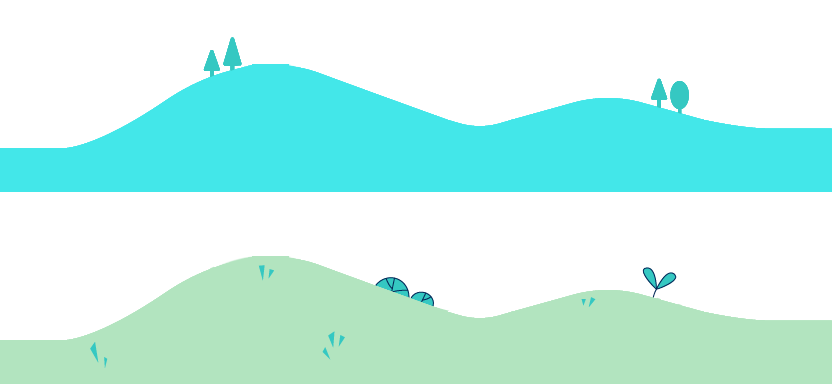
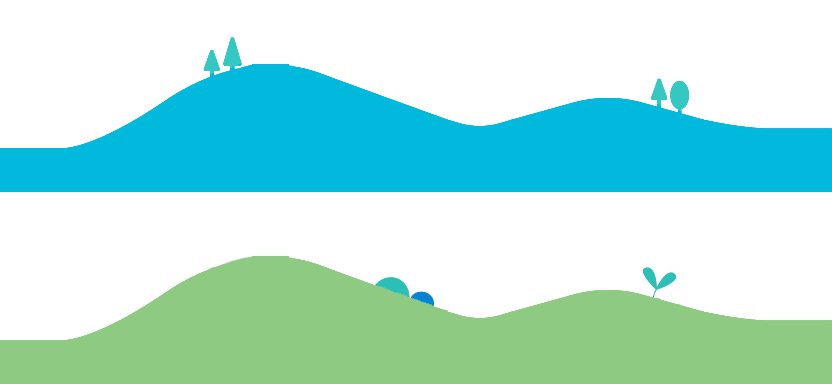
BG color tweaks

diff --git a/assets/map/tiles/tile_clouds_BG.tsx b/assets/map/tiles/tile_clouds_BG.tsx
@@ -1,0 +1,4 @@
+<?xml version="1.0" encoding="UTF-8"?>
+<tileset version="1.10" tiledversion="1.10.2" name="tile_clouds_BG" tilewidth="64" tileheight="64" tilecount="72" columns="8">
+ <image source="tile_clouds_BG.png" width="512" height="576"/>
+</tileset>
